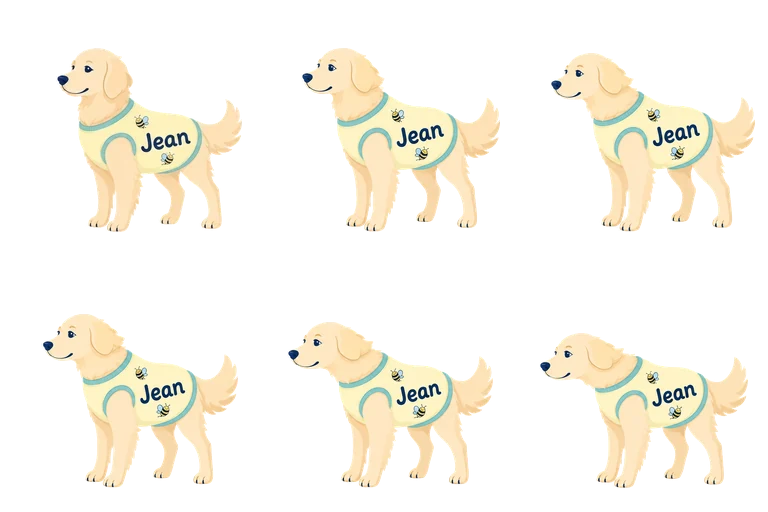
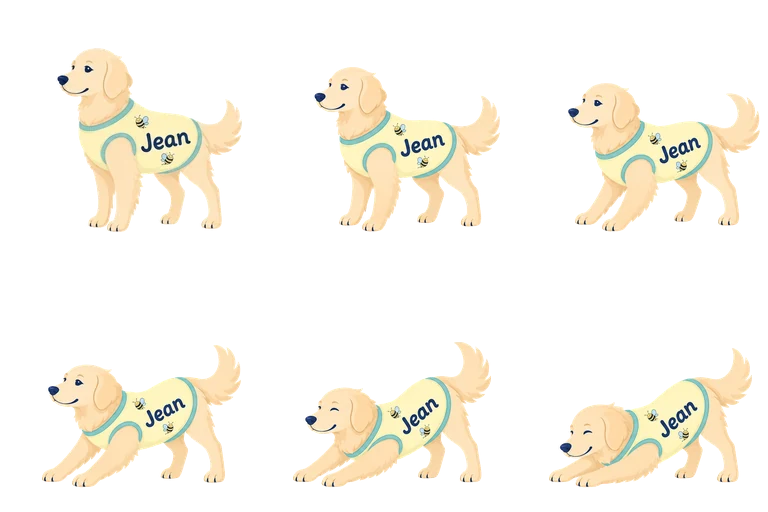
重绘left的动画

diff --git a/designs/jean-motion/index.html b/designs/jean-motion/index.html
@@ -5,7 +5,7 @@
   <meta name="viewport" content="width=device-width, initial-scale=1">
   <meta name="color-scheme" content="light">
   <title>Jean · 动作小样</title>
-  <link rel="stylesheet" href="preview.css?v=8">
+  <link rel="stylesheet" href="preview.css?v=9">
   <!-- 本地素材试验页；沿用公开端 ink/teal/sky/gold。所有资源均在本目录，无持久化、API 或线上路由接入。 -->
 </head>
 <body>
@@ -56,7 +56,7 @@
           <button type="button" data-action="look" aria-pressed="false"><span class="action-number">07</span><span><strong>Look <span>观察</span></strong><small>先转眼睛，再望向左上。</small></span><span class="action-mark" aria-hidden="true">↗</span></button>
           <button type="button" data-action="drag" aria-pressed="false"><span class="action-number">08</span><span><strong>Drag <span>被拖动</span></strong><small>爪子微收，轻轻晃一晃。</small></span><span class="action-mark" aria-hidden="true">↗</span></button>
           <button type="button" data-action="sleep" aria-pressed="false"><span class="action-number">09</span><span><strong>Sleep <span>小睡</span></strong><small>安静伏下，闭眼休息一会。</small></span><span class="action-mark" aria-hidden="true">↗</span></button>
-          <button type="button" data-action="lookLeft" aria-pressed="false"><span class="action-number">10</span><span><strong>Left <span>左侧</span></strong><small>鼠标从左侧靠近时轻轻跟随。</small></span><span class="action-mark" aria-hidden="true">↗</span></button>
+          <button type="button" data-action="lookLeft" aria-pressed="false"><span class="action-number">10</span><span><strong>Left <span>左侧</span></strong><small>放松前身，伸懒腰并轻轻摇尾。</small></span><span class="action-mark" aria-hidden="true">↗</span></button>
           <button type="button" data-action="lookLeftUp" aria-pressed="false"><span class="action-number">11</span><span><strong>Left-up <span>左上</span></strong><small>视线和鼻尖逐步抬向左上。</small></span><span class="action-mark" aria-hidden="true">↗</span></button>
           <button type="button" data-action="lookUp" aria-pressed="false"><span class="action-number">12</span><span><strong>Up <span>上方</span></strong><small>抬头看向宠物正上方。</small></span><span class="action-mark" aria-hidden="true">↗</span></button>
           <button type="button" data-action="lookRightUp" aria-pressed="false"><span class="action-number">13</span><span><strong>Right-up <span>右上</span></strong><small>转头并抬眼追随右上方。</small></span><span class="action-mark" aria-hidden="true">↗</span></button>
@@ -82,8 +82,8 @@
     </section>
     <footer class="footnote"><span>JEAN · 奶油金毛 / 蜜蜂背心</span><span>十四动作素材小样 v4 · <a href="prompts.md">母图与动作提示词</a></span></footer>
   </main>
-  <script src="assets/manifest.js?v=8"></script>
-  <script src="player.js?v=8"></script>
-  <script src="preview.js?v=8"></script>
+  <script src="assets/manifest.js?v=9"></script>
+  <script src="player.js?v=9"></script>
+  <script src="preview.js?v=9"></script>
 </body>
 </html>

diff --git a/designs/jean-motion/assets/manifest.js b/designs/jean-motion/assets/manifest.js
@@ -273,8 +273,8 @@ window.JEAN_MANIFEST = {
       "bytes": 157170
     },
     "lookLeft": {
-      "src": "assets/look-left.sheet.webp?v=8",
-      "staticSrc": "assets/look-left.static.webp?v=8",
+      "src": "assets/look-left.sheet.webp?v=9",
+      "staticSrc": "assets/look-left.static.webp?v=9",
       "frameCount": 6,
       "columns": 3,
       "rows": 2,
@@ -282,19 +282,19 @@ window.JEAN_MANIFEST = {
       "frameHeight": 256,
       "fps": 11,
       "durations": [
-        90,
-        70,
-        70,
-        80,
-        90,
-        110
+        110,
+        120,
+        140,
+        160,
+        180,
+        220
       ],
       "loop": false,
       "anchor": {
         "x": 128,
         "y": 232
       },
-      "bytes": 72058
+      "bytes": 71058
     },
     "lookLeftUp": {
       "src": "assets/look-left-up.sheet.webp?v=8",

diff --git a/scripts/build_jean_motion_assets.py b/scripts/build_jean_motion_assets.py
@@ -19,7 +19,7 @@ SOURCE = ASSETS / 'source'
 FRAME = 256
 ANCHOR_X = 128
 BASELINE_Y = 232
-ASSET_VERSION = 8
+ASSET_VERSION = 9
 
 ACTION_SPECS = {
     'idle': {
@@ -52,7 +52,7 @@ ACTION_SPECS = {
     },
     'lookLeft': {
         'slug': 'look-left', 'columns': 3, 'rows': 2, 'fps': 11, 'loop': False,
-        'durations': [90, 70, 70, 80, 90, 110], 'staticFrame': -1,
+        'durations': [110, 120, 140, 160, 180, 220], 'staticFrame': -1,
     },
     'lookLeftUp': {
         'slug': 'look-left-up', 'columns': 3, 'rows': 2, 'fps': 11, 'loop': False,
@@ -226,6 +226,34 @@ def extract_frames(image, columns, rows, frame_count, top_overscan=None, matte=N
 def normalize_frames(name, records):
     """Give each clip a stable apparent scale, torso x position and ground line."""
     reference = records[0]
+    if name == 'lookLeft':
+        # The bow moves the shirt forward/down. Keep the planted rear paw
+        # fixed instead of cancelling that movement with the garment anchor.
+        def rear_paw_x(crop):
+            alpha = np.asarray(crop.getchannel('A'))
+            ys, xs = np.where((alpha > 100) & (np.indices(alpha.shape)[0] >= crop.height - 20))
+            return float(np.percentile(xs, 95))
+
+        idle = Image.open(ASSETS / 'idle.static.webp').convert('RGBA')
+        idle_box = idle.getchannel('A').getbbox()
+        target_x = rear_paw_x(idle.crop(idle_box)) + idle_box[0]
+        paw_positions = [rear_paw_x(record['image']) for record in records]
+        scale = min(
+            (idle_box[3] - idle_box[1]) / reference['image'].height,
+            (target_x - 8) / max(paw_positions),
+            (FRAME - 8 - target_x) / max(record['image'].width - paw for record, paw in zip(records, paw_positions)),
+        )
+        result = []
+        for record, paw in zip(records, paw_positions):
+            crop = record['image']
+            width, height = round(crop.width * scale), round(crop.height * scale)
+            x, y = round(target_x - paw * scale), BASELINE_Y - height
+            if min(x, y) < 0 or x + width > FRAME or y + height > FRAME:
+                raise ValueError('Left stretch exceeds runtime cell')
+            frame = Image.new('RGBA', (FRAME, FRAME))
+            frame.alpha_composite(crop.resize((width, height), Image.Resampling.LANCZOS), (x, y))
+            result.append(frame)
+        return result
     max_left = max(record['anchor_x'] for record in records)
     max_right = max(record['image'].width - record['anchor_x'] for record in records)
     max_height = max(record['image'].height for record in records)

diff --git a/scripts/test_jean_motion_assets.py b/scripts/test_jean_motion_assets.py
@@ -99,12 +99,18 @@ class AssetsTest(unittest.TestCase):
                 frame_image = sheet.crop((x, y, x + 256, y + 256)).convert('RGBA')
                 frame = np.asarray(frame_image)
                 anchor = garment_anchor(frame_image)
-                self.assertLessEqual(abs(anchor[0] - idle_anchor[0]), 3, f'{action} shirt x')
-                self.assertLessEqual(abs(anchor[1] - idle_anchor[1]), 7, f'{action} shirt y')
+                if action != 'lookLeft':
+                    self.assertLessEqual(abs(anchor[0] - idle_anchor[0]), 3, f'{action} shirt x')
+                    self.assertLessEqual(abs(anchor[1] - idle_anchor[1]), 7, f'{action} shirt y')
+                else:
+                    # Stretching intentionally lowers the torso and clothing;
+                    # the rear paw, rather than the shirt, must stay planted.
+                    rear = (frame[:, :, 3] > 100) & (yy >= 220) & (xx > 170)
+                    self.assertGreater(int(rear.sum()), 20, 'stretch rear paw lost ground contact')
                 dark_face = (
                     (frame[:, :, 3] > 96)
                     & (frame[:, :, :3].max(axis=2) < 100)
-                    & (yy < 125)
+                    & (yy < (210 if action == 'lookLeft' else 125))
                     & (xx < 175)
                 )
                 self.assertGreaterEqual(

diff --git a/designs/jean-motion/left-stretch-prompt.md b/designs/jean-motion/left-stretch-prompt.md
@@ -1,0 +1,11 @@
+# Left：被摸头时舒展前身
+
+使用内置 imagegen，参考服装母图和运行时 idle。前身下沉、前腿舒展、后脚站稳，尾巴小幅摆动。6 帧正向共 930ms，停留后反向恢复；停留时保持末帧，不持续摇尾。
+
+处理沿用 `scripts/build_jean_motion_assets.py`，left 改为固定后脚与地面基线，允许衣服随身体倾斜。完整保留头颈，不拼接身体。最终输出透明 WebP，同步演示页和运行时资源。
+
+## 本次完整生成提示词
+
+Create a 1536x1024 spritesheet, exactly 3 columns by 2 rows, six equal square cells read left to right then next row. Image 1 is Jean's exact character master, image 2 is his runtime neutral standing pose. Match cream golden fur, navy solid nose and eyes, pale butter-yellow sleeveless shirt with teal trim, two bees and readable navy "Jean". Same clean soft 2D illustration and proportions.
+Replace the previous left-looking motion with a gentle affectionate stretch/bow as if enjoying an unseen hand petting his head. NO human hand. Frame 1 neutral standing matching reference. Frame 2 shoulders soften and elbows bend slightly. Frame 3 front paws slide a little forward toward left, chest descends 15 percent. Frame 4 chest descends 30 percent, forelegs extend diagonally forwards. Frame 5 relaxed shallow play-bow, chest down 40 percent, head naturally follows shoulders, hind legs still standing. Frame 6 comfortable sustained bow, nose above ground, relaxed happy eyes. The neck must stay normal length: NO stretched neck, no isolated head reach, no crawling or lying fully down. Animate a modest alternating tail wag across frames 2–6 while keeping its root attached and hind paws planted. Rear feet remain at identical positions in each cell, baseline fixed. Smooth small gradual changes, same camera scale all frames, no jumping.
+Keep identity and clothing design exact but let shirt bend naturally with torso. Full body including tail and paws entirely within each cell, generous margins on all sides for forward paws. Flat pure white background for script removal, no checkerboard, shadows, gridlines, labels or extra text.

diff --git a/designs/jean-motion/prompts.md b/designs/jean-motion/prompts.md
@@ -26,3 +26,7 @@
 - Hover 进入时正向播放，第 6 帧停留；离开时沿原帧序反向回到第 1 帧。
 - 脚本会把第 1 帧替换为当前 `idle.static.webp`，再按衣服锚点统一缩放、基线和画布。头部与身体不做局部拼接，避免颈部断层；身体和衣服的一致性由母图参考与逐帧生成约束保证。
 - 运行时单元格为 `256 × 256`，锚点为 `(128, 232)`，最终输出透明 WebP。
+
+## Left 动作更新（2026-09-28）
+
+Left 采用前身下沉、前腿向前舒展和小幅摇尾，替代伸头。它是上述身体固定规则的例外；后脚保持站立，服装自然随身体弯曲。时长改为 110 / 120 / 140 / 160 / 180 / 220ms。完整提示词见 [left-stretch-prompt.md](left-stretch-prompt.md)。
